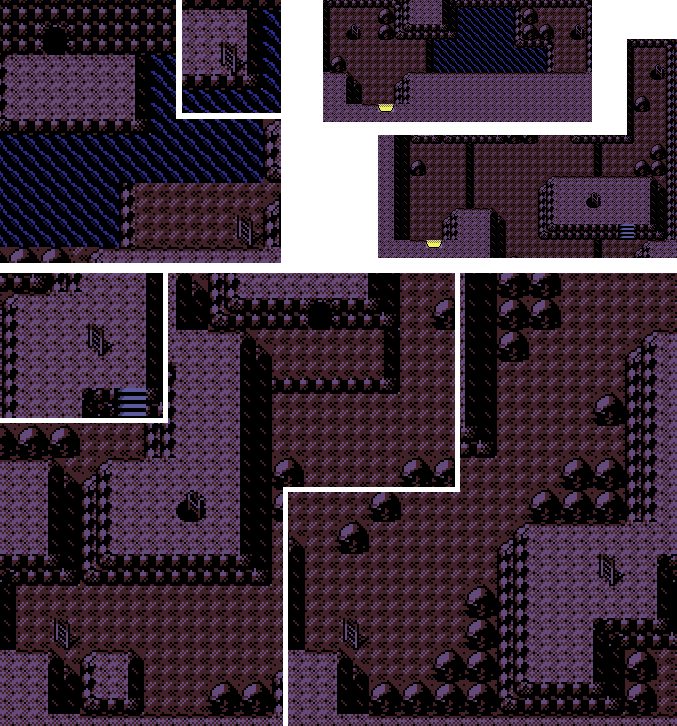
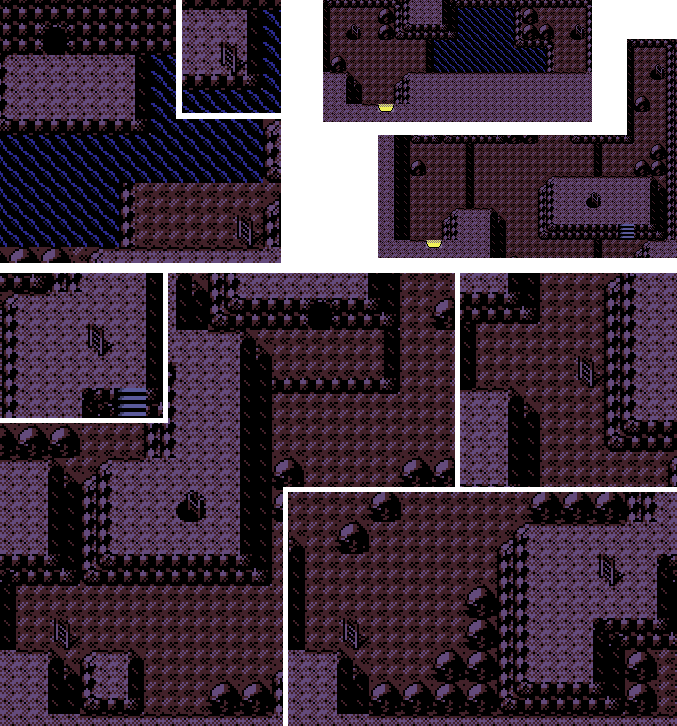
Added warp to Whirl Islands

Changed region(s): [[0.6824, 0.3636, 1.0, 0.697]]

diff --git a/games/crystal.js b/games/crystal.js
@@ -496,7 +496,8 @@ var crystal = {
 			ledges_entrance: {x: 431, y: 207, name: "Whirl (Ledges)"    },
 			ledges_bot:      {x: 592, y: 168, name: "Whirl (Ledges)"    },
 			ledges_top:      {x: 607, y: 106, name: "Whirl (Ledges)"    },
-			main_top:        {x: 101, y: 389, name: "Whirl (Main)"      },
+			main_topleft:    {x: 101, y: 389, name: "Whirl (Main)"      },
+			main_topright:   {x: 583, y: 331, name: "Whirl (Main)"      },
 			main_mid:        {x: 198, y: 557, name: "Whirl (Main)"      },
 			main_botleft:    {x: 70,  y: 693, name: "Whirl (Main)"      },
 			main_botmid:     {x: 356, y: 686, name: "Whirl (Main)"      },
